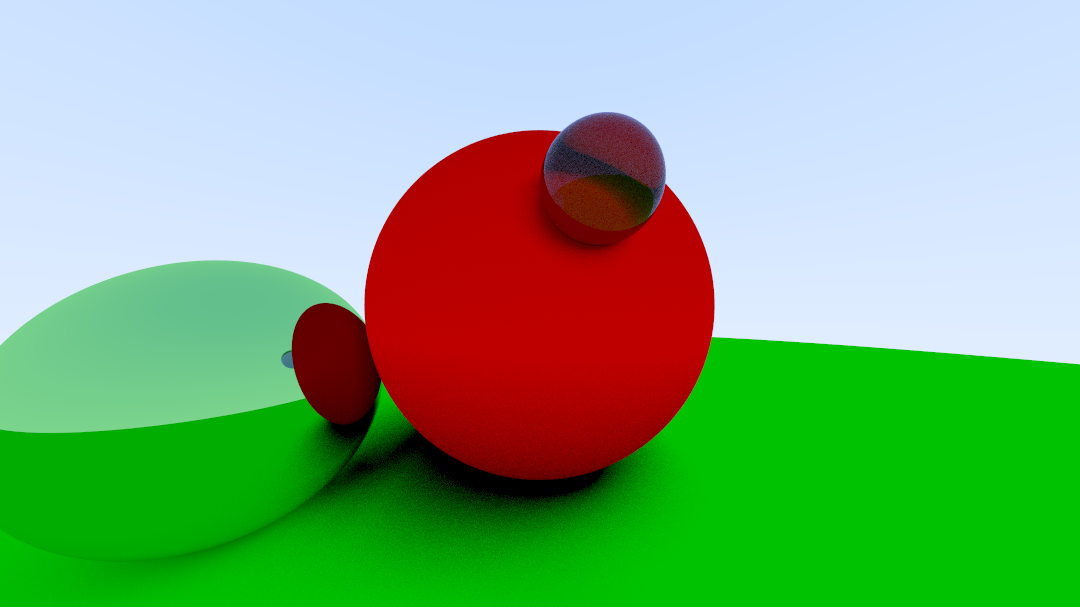
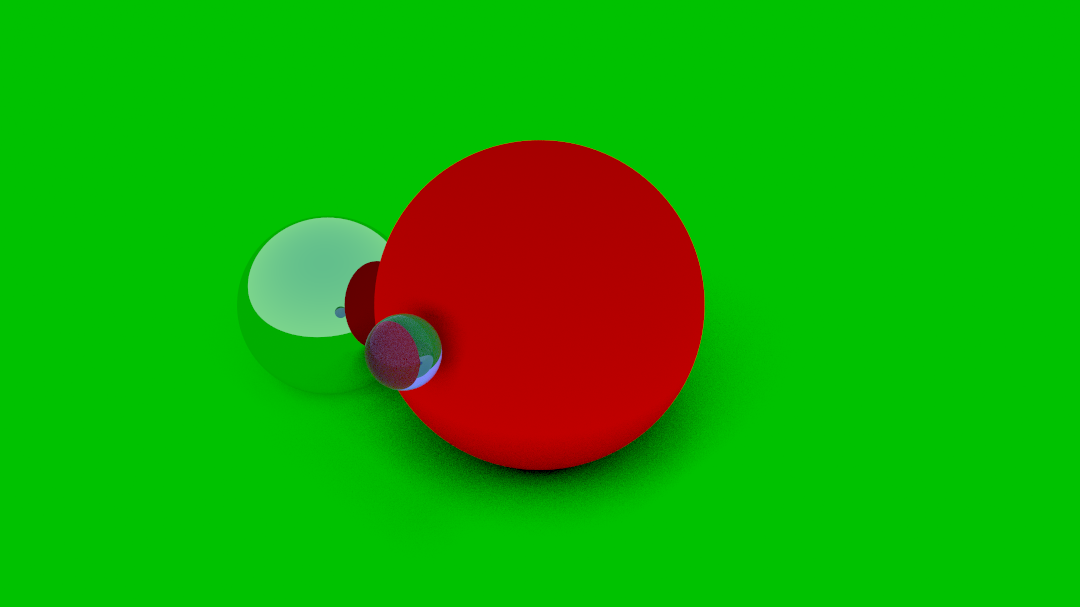
Positionable Camera

diff --git a/src/main.cpp b/src/main.cpp
@@ -29,12 +29,12 @@ constexpr size_t IMAGE_WIDTH  = 1080;
 constexpr size_t IMAGE_HEIGHT = static_cast<size_t>(IMAGE_WIDTH / ASPECT_RATIO);
 
 // Camera
-constexpr float  VERTICAL_FOV_DEG = 90.0f;
-const     Point3 LOOK_FROM       = Point3 ( 0.f,  1.f,  0.f);
-const     Point3 LOOK_AT         = Point3 ( 0.f,  0.f, -1.f);
-const     Vec3   VIEW_UP         = Vec3   ( 0.f,  1.f,  0.f);
+constexpr float  VERTICAL_FOV_DEG = 30.0f;
+constexpr Point3 LOOK_FROM        = Point3 ( 2.f,  2.f,  1.f);
+constexpr Point3 LOOK_AT          = Point3 ( 0.f,  0.f, -1.f);
+constexpr Vec3   VIEW_UP          = Vec3   ( 0.f,  1.f,  0.f);
 
-constexpr size_t SAMPLES_BY_PIXEL = 10;
+constexpr size_t SAMPLES_BY_PIXEL = 100;
 constexpr size_t MAX_RAY_BOUNCES  = 50;
 
 
@@ -84,7 +84,7 @@ int main()
     HittableList worldObjects;
     worldObjects.add(std::make_shared<Sphere>(Point3( 0.0f,    0.0f, -1.0f),   0.5f, diffuseRed));
     worldObjects.add(std::make_shared<Sphere>(Point3(-0.7f,   -0.2f, -0.7f),   0.3f, metalGreen));
-    worldObjects.add(std::make_shared<Sphere>(Point3( 0.1f,    0.2f, -0.5f),   0.1f, glassBlue));
+    worldObjects.add(std::make_shared<Sphere>(Point3( 0.1f,    0.2f, -0.4f),   0.1f, glassBlue));
     worldObjects.add(std::make_shared<Sphere>(Point3( 0.0f, -100.5f, -1.0f), 100.0f, diffuseGreen));
 
     // worldObjects.add(std::make_shared<Sphere>(Point3( 0.f, -100.5f, -1.f), 100.0f, material_ground));

diff --git a/src/Vec3.h b/src/Vec3.h
@@ -11,9 +11,9 @@
 class Vec3
 {
 public:
-    Vec3() 
+    constexpr Vec3() 
         : m_coordinates{ 0, 0, 0 } {}
-    Vec3(float x, float y, float z)
+    constexpr Vec3(float x, float y, float z)
         : m_coordinates{ x, y, z } {}
 
     static inline Vec3 random() { return Vec3(utils::randomFloat(), utils::randomFloat(), utils::randomFloat()); }
@@ -91,7 +91,7 @@ protected:
 
 inline std::ostream& operator<<(std::ostream &out, Vec3 const& v) 
 {
-    out << "(" << v.x() << " ," << v.y() << " ," << v.z() << ")";
+    out << "(" << v.x() << ", " << v.y() << ", " << v.z() << ")";
     return out;
 }
 

diff --git a/src/Color.h b/src/Color.h
@@ -12,9 +12,9 @@ struct Color_uint8_t
 class Color : public Vec3
 {
 public:
-    Color(float r, float g, float b) : Vec3(r, g, b) {}
-    Color(Vec3 const& v)  : Vec3(v) {}  // Used for implicit conversion
-    Color(Color const& c) = default;
+    constexpr Color(float r, float g, float b) : Vec3(r, g, b) {}
+    constexpr Color(Vec3 const& v)  : Vec3(v) {}  // Used for implicit conversion
+    constexpr Color(Color const& c) = default;
     inline Color& operator=(Color const& c) = default;
 
 

diff --git a/src/Camera.h b/src/Camera.h
@@ -60,6 +60,7 @@ private:
         float  ratio,
         Vec3   u
     ):
+        m_origin          (lookFrom),
         m_horizontal      (ratio * vph * u),
         m_vertical        (vph * cross(w, u)),
         m_lowerLeftCorner (m_origin - m_horizontal/2 - m_vertical/2 - w)
